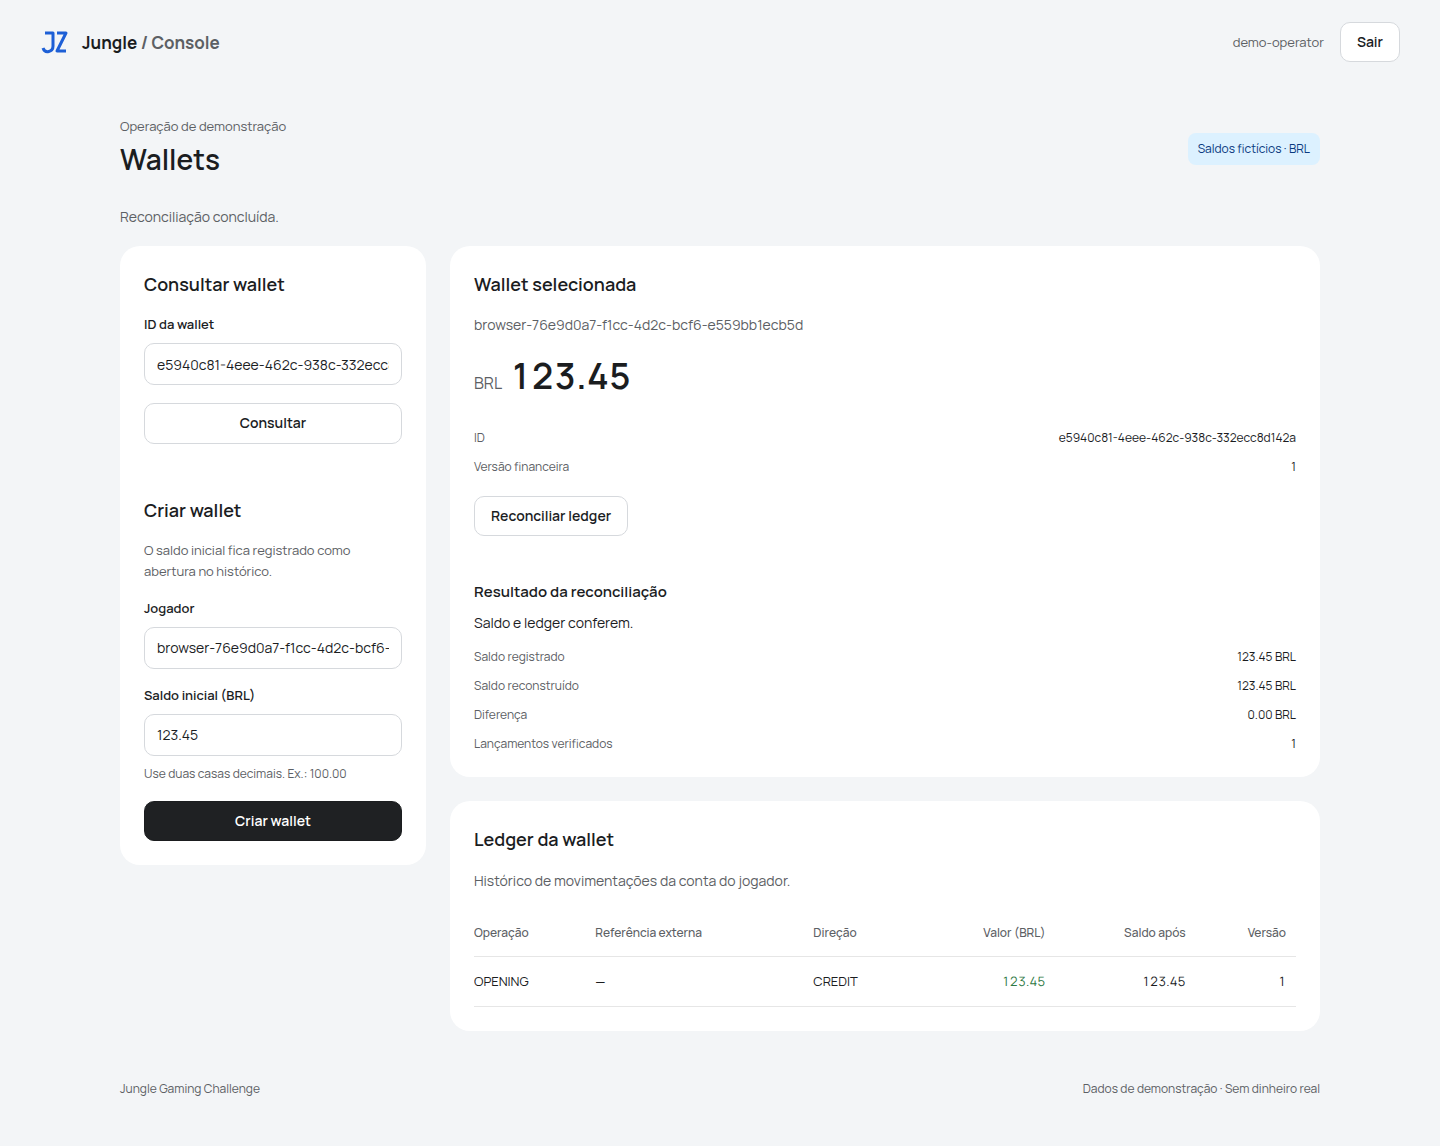
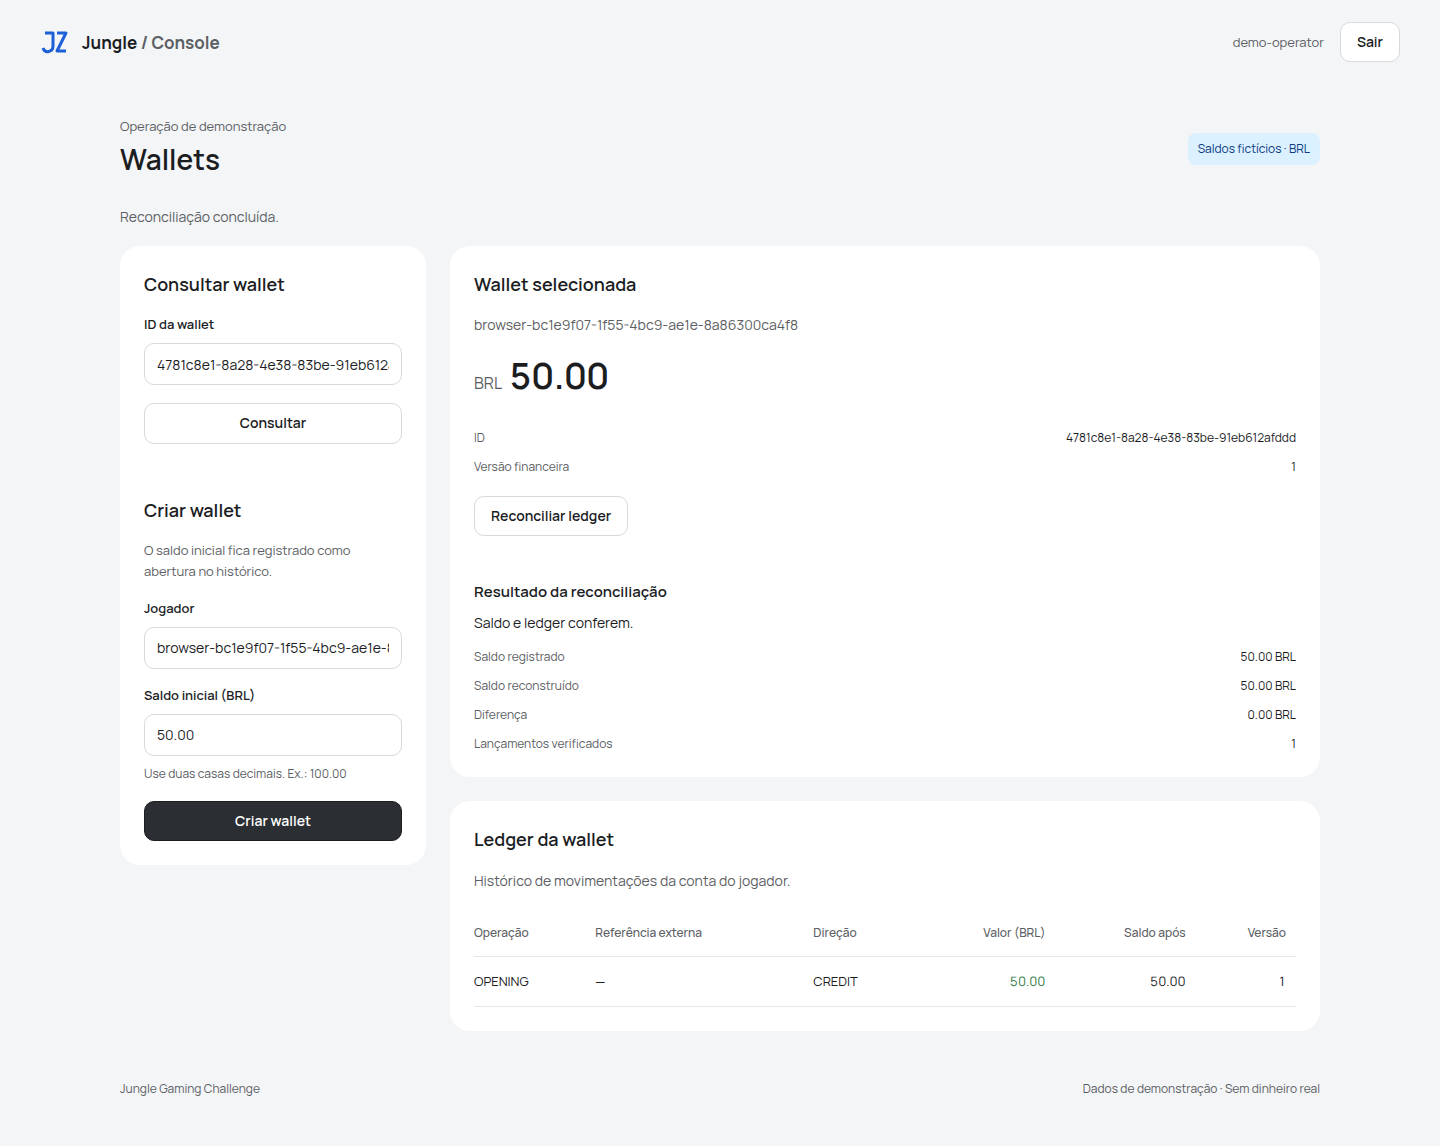
Fix reconciliation bounds and stale results

diff --git a/tests/integration/console.test.ts b/tests/integration/console.test.ts
@@ -56,9 +56,15 @@ beforeAll(async () => {
   restoreConsoleClient = await allowEphemeralRedirect(base);
 });
 afterAll(async () => {
-  await restoreConsoleClient?.();
-  await app?.close();
-  await database?.close();
+  try {
+    await restoreConsoleClient?.();
+  } finally {
+    try {
+      await app?.close();
+    } finally {
+      await database?.close();
+    }
+  }
 });
 browserTest(
   'demo operator reconciles through the authenticated console; viewer only reads',
@@ -81,9 +87,36 @@ browserTest(
       await page.getByRole('button', { name: 'Criar wallet', exact: true }).click();
       await page.getByTestId('wallet-balance').filter({ hasText: '123.45' }).waitFor();
       await page.getByRole('cell', { name: 'OPENING', exact: true }).waitFor();
+      const firstWalletId = await page.getByTestId('wallet-id').textContent();
+      let releaseRequest!: () => void;
+      let requestStarted!: () => void;
+      const blockedResponse = new Promise<void>((resolve) => (releaseRequest = resolve));
+      const reconciliationStarted = new Promise<void>((resolve) => (requestStarted = resolve));
+      await page.route('**/wallets/*/reconciliation', async (route) => {
+        requestStarted();
+        await blockedResponse;
+        await route.continue();
+      });
+      const reconciliationResponse = page.waitForResponse(
+        (response) => response.url().includes('/reconciliation') && response.status() === 200,
+      );
+      await page.getByRole('button', { name: 'Reconciliar ledger' }).click();
+      await reconciliationStarted;
+      await page.getByLabel('Jogador').fill(`browser-${crypto.randomUUID()}`);
+      await page.getByLabel('Saldo inicial (BRL)').fill('50.00');
+      await page.getByRole('button', { name: 'Criar wallet', exact: true }).click();
+      await page.getByTestId('wallet-balance').filter({ hasText: '50.00' }).waitFor();
+      const id = await page.getByTestId('wallet-id').textContent();
+      expect(id).not.toBe(firstWalletId);
+      releaseRequest();
+      await reconciliationResponse;
+      await page.evaluate(
+        () => new Promise<void>((resolve) => requestAnimationFrame(() => resolve())),
+      );
+      expect(await page.locator('#reconciliation').isHidden()).toBe(true);
+      await page.unroute('**/wallets/*/reconciliation');
       await page.getByRole('button', { name: 'Reconciliar ledger' }).click();
       await page.getByText('Saldo e ledger conferem.', { exact: true }).waitFor();
-      const id = await page.getByTestId('wallet-id').textContent();
       expect(id).toMatch(/^[0-9a-f-]{36}$/);
       expect(
         await page.evaluate(() => Object.keys(localStorage).some((key) => /token/i.test(key))),
@@ -116,7 +149,7 @@ browserTest(
       );
       await viewer.getByLabel('ID da wallet').fill(id!);
       await viewer.getByRole('button', { name: 'Consultar', exact: true }).click();
-      await viewer.getByTestId('wallet-balance').filter({ hasText: '123.45' }).waitFor();
+      await viewer.getByTestId('wallet-balance').filter({ hasText: '50.00' }).waitFor();
       await viewer.getByRole('cell', { name: 'OPENING', exact: true }).waitFor();
       expect(await viewer.getByRole('button', { name: 'Reconciliar ledger' }).count()).toBe(0);
       await viewerContext.close();

diff --git a/tests/integration/wallet-http.test.ts b/tests/integration/wallet-http.test.ts
@@ -256,6 +256,62 @@ integration('reconciliation reports a privileged fixture divergence, log and met
   expect(stillStored).toEqual([{ balance: '7.00' }]);
 });
 
+integration('reconciliation formats ledger aggregates beyond the wallet input bound', async () => {
+  const demo = await humanToken('demo-operator');
+  const operator = await humanToken('operator');
+  const created = await fetch(`${base}/wallets`, {
+    method: 'POST',
+    headers: { Authorization: `Bearer ${demo}`, 'Content-Type': 'application/json' },
+    body: JSON.stringify({
+      playerId: crypto.randomUUID(),
+      initialBalance: { amount: '12.34', currency: 'BRL' },
+    }),
+  });
+  const wallet = (await created.json()) as { id: string };
+  await database.owner.em.fork().transactional(async (em) => {
+    const [owner] = await em.execute<{ account_id: string; currency: string }[]>(
+      'select account_id,currency from wagering.wallets where id=?',
+      [wallet.id],
+    );
+    const [gaming] = await em.execute<{ id: string }[]>(
+      "select id from wagering.accounts where currency=? and kind='GAMING'",
+      [owner!.currency],
+    );
+    await em.execute('alter table wagering.transactions disable trigger transaction_consistency');
+    await em.execute('alter table wagering.transactions disable trigger external_submission_consistency');
+    await em.execute('alter table wagering.journal disable trigger journal_consistency');
+    for (const walletVersion of [2, 3]) {
+      const transactionId = crypto.randomUUID();
+      await em.execute(
+        `insert into wagering.transactions(id,wallet_id,currency,amount,kind,status)
+         values(?,?,'BRL','9999999999999999.99','WIN','PROCESSED')`,
+        [transactionId, wallet.id],
+      );
+      await em.execute(
+        `insert into wagering.journal(id,transaction_id,wallet_id,currency,amount,debit_account_id,credit_account_id,balance_before,balance_after,wallet_version)
+         values(?,?,?,'BRL','9999999999999999.99',?,?,0,'9999999999999999.99',?)`,
+        [crypto.randomUUID(), transactionId, wallet.id, gaming!.id, owner!.account_id, walletVersion],
+      );
+    }
+    await em.execute('alter table wagering.journal enable trigger journal_consistency');
+    await em.execute('alter table wagering.transactions enable trigger external_submission_consistency');
+    await em.execute('alter table wagering.transactions enable trigger transaction_consistency');
+  });
+
+  const response = await fetch(`${base}/wallets/${wallet.id}/reconciliation`, {
+    method: 'POST',
+    headers: { Authorization: `Bearer ${operator}` },
+  });
+  expect(response.status).toBe(200);
+  expect(await response.json()).toMatchObject({
+    storedBalance: { amount: '12.34', currency: 'BRL' },
+    calculatedBalance: { amount: '20000000000000012.32', currency: 'BRL' },
+    difference: { amount: '-19999999999999999.98', currency: 'BRL' },
+    consistent: false,
+    checkedEntries: 3,
+  });
+});
+
 integration(
   'zero opening has version one and no ledger; duplicate player/currency conflicts',
   async () => {

diff --git a/src/modules/wallets/application/wallets.ts b/src/modules/wallets/application/wallets.ts
@@ -1,12 +1,18 @@
 import { Wallet } from '../domain/wallet';
 import { DomainError } from '../../../shared/domain/errors/domain-error';
-import { Money } from '../../../shared/domain/money';
 import type {
   CreateWalletCommand,
   WalletContext,
   WalletStore,
   LedgerQuery,
 } from './wallet-store';
+
+function exactMoney(amount: string) {
+  const match = /^(-?)(\d+)(?:\.(\d+))?$/.exec(amount);
+  if (!match || (match[3]?.length ?? 0) > 2)
+    throw new Error('Reconciliation returned an invalid decimal amount');
+  return `${match[1]}${match[2]}.${(match[3] ?? '').padEnd(2, '0')}`;
+}
 
 export class Wallets {
   constructor(private readonly store: WalletStore) {}
@@ -43,17 +49,15 @@ export class Wallets {
   async reconcile(id: string) {
     const result = await this.store.reconcile(id);
     if (!result) throw new DomainError('WALLET_NOT_FOUND');
-    const stored = Money.rehydrate({ amount: result.storedBalance, currency: result.currency });
-    const calculated = Money.rehydrate({
-      amount: result.calculatedBalance,
-      currency: result.currency,
-    });
+    const stored = exactMoney(result.storedBalance);
+    const calculated = exactMoney(result.calculatedBalance);
+    const difference = exactMoney(result.difference);
     return {
       walletId: id,
-      storedBalance: stored.toProps(),
-      calculatedBalance: calculated.toProps(),
-      difference: stored.subtract(calculated).toProps(),
-      consistent: stored.toProps().amount === calculated.toProps().amount,
+      storedBalance: { amount: stored, currency: result.currency },
+      calculatedBalance: { amount: calculated, currency: result.currency },
+      difference: { amount: difference, currency: result.currency },
+      consistent: difference === '0.00' || difference === '-0.00',
       checkedEntries: result.checkedEntries,
     };
   }

diff --git a/frontend/app.ts b/frontend/app.ts
@@ -101,11 +101,13 @@ async function ledger(append = false) {
 }
 async function reconcile() {
   if (!selected) return;
+  const walletId = selected.id;
   const button = element<HTMLButtonElement>('reconcile');
   button.disabled = true;
   notice('Conferindo saldo e lançamentos…');
   try {
-    const result = (await api(`/wallets/${selected.id}/reconciliation`, {})) as Reconciliation;
+    const result = (await api(`/wallets/${walletId}/reconciliation`, {})) as Reconciliation;
+    if (selected?.id !== walletId) return;
     element('reconciliation').hidden = false;
     element('reconciliation-status').textContent = result.consistent
       ? 'Saldo e ledger conferem.'
@@ -117,13 +119,15 @@ async function reconcile() {
     element('reconciliation-entries').textContent = String(result.checkedEntries);
     notice('Reconciliação concluída.');
   } catch (error) {
-    notice(error instanceof Error ? error.message : 'Falha de conexão. Tente novamente.', true);
+    if (selected?.id === walletId)
+      notice(error instanceof Error ? error.message : 'Falha de conexão. Tente novamente.', true);
   } finally {
-    button.disabled = false;
+    if (selected?.id === walletId) button.disabled = false;
   }
 }
 async function showWallet(wallet: Wallet) {
   selected = wallet;
+  element<HTMLButtonElement>('reconcile').disabled = false;
   element('wallet').hidden = false;
   element('empty').hidden = true;
   element('wallet-player').textContent = wallet.playerId;

diff --git a/src/modules/wallets/infrastructure/persistence/wallet-repository.ts b/src/modules/wallets/infrastructure/persistence/wallet-repository.ts
@@ -96,12 +96,14 @@ export class WalletRepository implements WalletStore {
         Array<{
           stored_balance: string;
           calculated_balance: string;
+          difference: string;
           currency: string;
           checked_entries: number;
         }>
       >(
         `select w.balance::text as stored_balance, w.currency,
           coalesce(sum(case when l.direction='CREDIT' then l.amount else -l.amount end),0)::text as calculated_balance,
+          (w.balance-coalesce(sum(case when l.direction='CREDIT' then l.amount else -l.amount end),0))::text as difference,
           count(l.id)::int as checked_entries
         from wagering.wallets w
         left join wagering.wallet_ledger l on l.wallet_id=w.id
@@ -113,6 +115,7 @@ export class WalletRepository implements WalletStore {
         ? {
             storedBalance: row.stored_balance,
             calculatedBalance: row.calculated_balance,
+            difference: row.difference,
             currency: row.currency,
             checkedEntries: row.checked_entries,
           }

diff --git a/src/modules/wallets/application/wallet-store.ts b/src/modules/wallets/application/wallet-store.ts
@@ -30,6 +30,7 @@ export interface WalletStore {
 export interface WalletReconciliationView {
   storedBalance: string;
   calculatedBalance: string;
+  difference: string;
   currency: string;
   checkedEntries: number;
 }

diff --git a/docs/evidence/issue-9/README.md b/docs/evidence/issue-9/README.md
@@ -5,8 +5,8 @@ Wallet ledger pagination, reconciliation, and the authenticated console are cove
 ## Verification
 
 - `bun run build` — TypeScript typecheck and production frontend build passed.
-- `INTEGRATION=1 bun test tests/integration/wallet-http.test.ts` — 10 tests passed against PostgreSQL and Keycloak. Covers exact values, operator/viewer access, a cursor retaining its first-page version ceiling while a new entry arrives, cursor binding to a wallet, and a privileged disposable-database discrepancy fixture. The fixture disables only the wallet consistency trigger for the mutation and restores it immediately; the API does not update the discrepant balance. The test checks the exact negative difference, log metadata, and injectable divergence counter.
-- `BROWSER=1 SCREENSHOTS=1 CHROME_PATH=/usr/bin/google-chrome bun test tests/integration/console.test.ts` — authenticated browser flow passed. The demo operator sees reconciliation results; viewer can read the wallet and ledger but has no reconciliation control. The test adds the exact ephemeral callback URI to the existing Keycloak console client for its run and restores the prior redirect and origin arrays in teardown.
+- `INTEGRATION=1 bun test tests/integration/wallet-http.test.ts` — 11 tests passed against PostgreSQL and Keycloak. Covers exact values, operator/viewer access, a cursor retaining its first-page version ceiling while a new entry arrives, cursor binding to a wallet, and privileged disposable-database fixtures for a divergence and a reconstructed aggregate above the wallet input bound. Fixtures disable only the relevant integrity triggers and restore them; the API does not change discrepant balances. Tests check exact signed differences, log metadata, and the injectable divergence counter.
+- `SCREENSHOTS=1 CHROME_PATH=/usr/bin/google-chrome bun run test:browser` — authenticated browser flow passed. The demo operator sees reconciliation results; viewer can read the wallet and ledger but has no reconciliation control. A held reconciliation response is released after selecting a second wallet and must not replace that wallet's view. This command builds host frontend assets before the test. The test adds the exact ephemeral callback URI to the existing Keycloak console client for its run and restores the prior redirect and origin arrays in teardown.
 - Frontend taste lint — 0 failures; one warning remains for the existing form input outline.
 
 ## Screenshots
